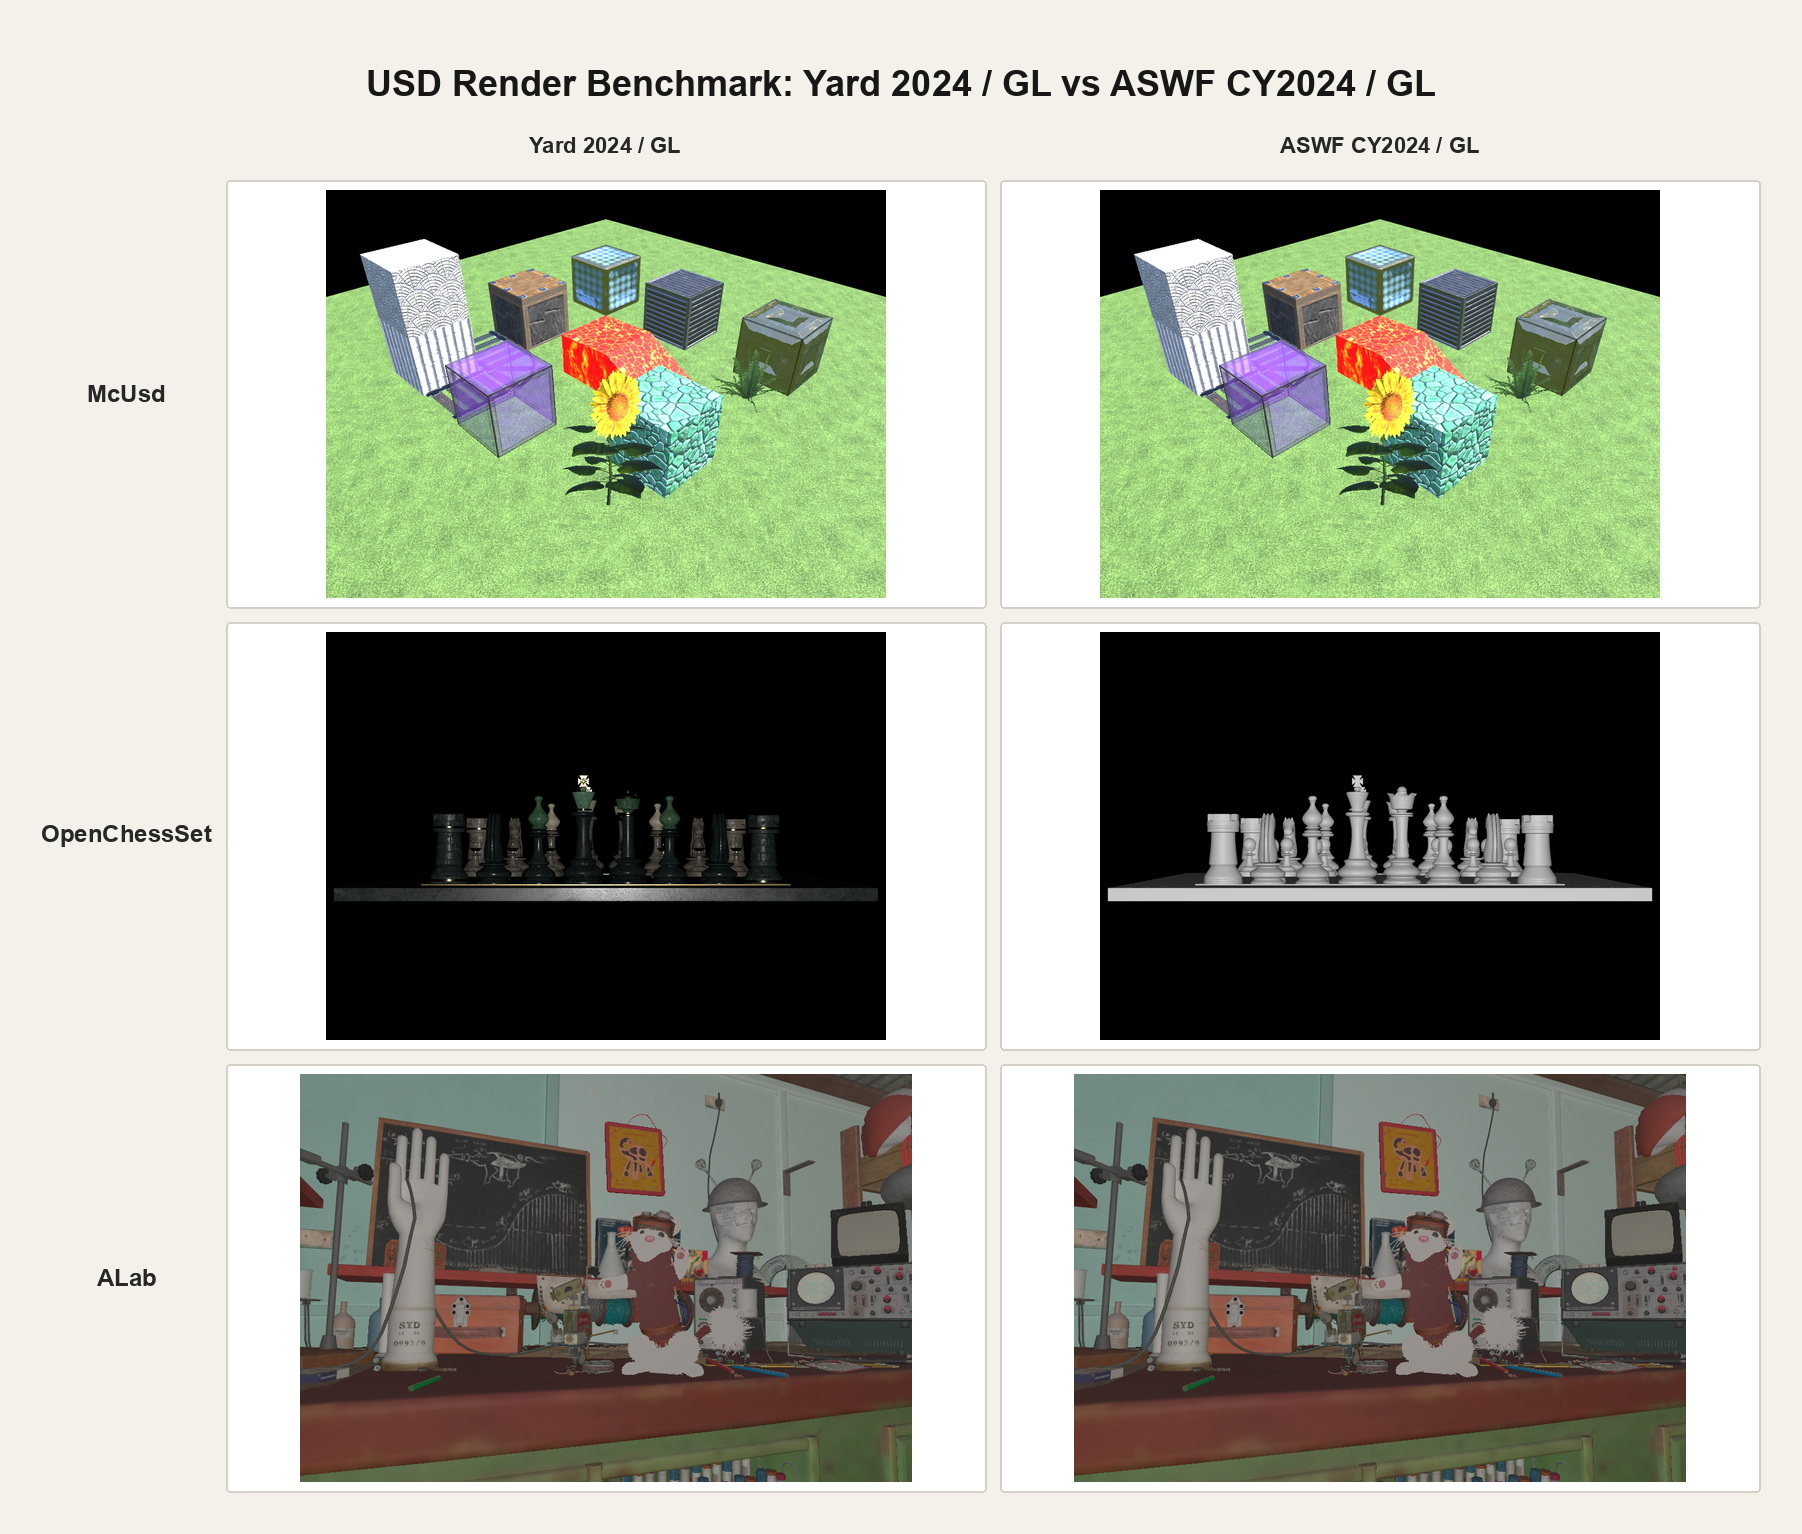
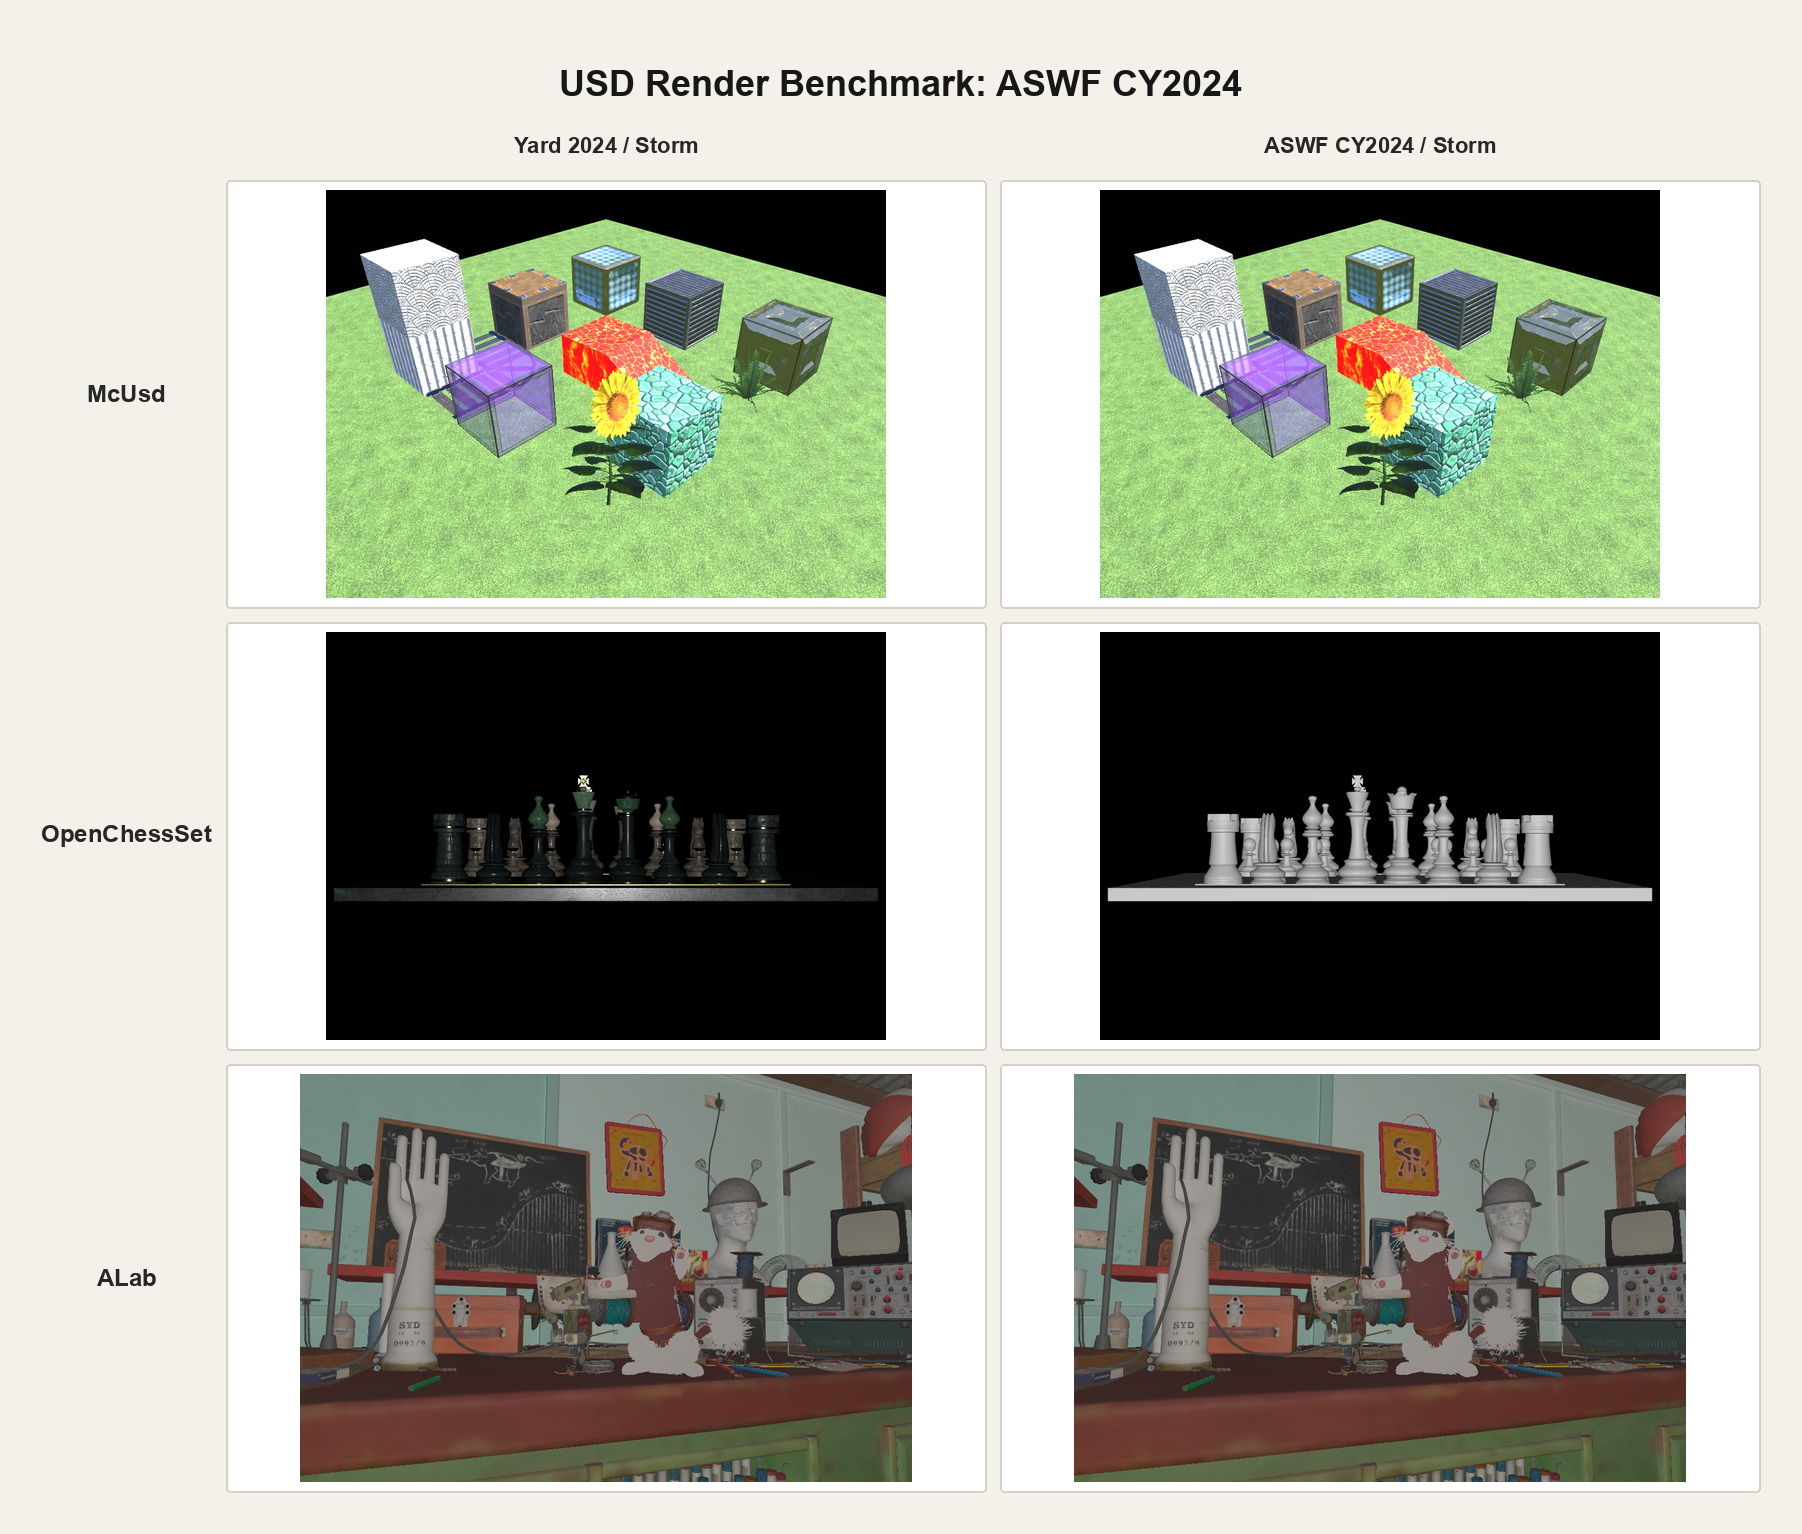
Refresh ASWF CY2024 Storm benchmark

Changed region(s): [[0.1865, 0.0306, 0.808, 0.0613], [0.7148, 0.0919, 0.8391, 0.1226], [0.2797, 0.0919, 0.3729, 0.1226]]

diff --git a/render_summary.md b/render_summary.md
@@ -2,8 +2,8 @@
 
 | Scene \ Renderer | GL |
 |---|---|
-| McUsd | Failure<br>0:08.23<br>390824KB |
-| chess_set | Success<br>0:02.68<br>369272KB |
-| entry | Failure<br>1:27.23<br>4728512KB |
+| McUsd | Success<br>0:06.10<br>385924KB |
+| chess_set | Success<br>0:01.80<br>376712KB |
+| entry | Failure<br>1:08.03<br>7272656KB |
 ## System Specs
-NVIDIA driver version 580.159.04 GPU: NVIDIA RTX PRO 4000 Blackwell with 24467MB Rocky Linux 8.10 (Green Obsidian), Linux kernel 6.8.0-124-generic
+AMD EPYC 7713 64-Core Processor (128 logical CPUs allowed, quota 27.2 CPUs) with 59127MB RAM limit NVIDIA driver version 580.167.08 GPU 0: NVIDIA RTX PRO 4500 Blackwell @ 3090MHz (compute 12.0) with 32623MB (32124MB available) Rocky Linux 8.10 (Green Obsidian), Linux kernel 6.8.0-124-generic

diff --git a/README.md b/README.md
@@ -9,9 +9,9 @@ environment and OpenUSD 24.08. It is not a complete CY2024 rerun of the original
 
 - Renderers: Storm
 - OpenUSD: 24.08
-- Container: `aswf/ci-vfxall:2024`
-- GPU: NVIDIA RTX PRO 4000 Blackwell, 24 GB
-- Driver: NVIDIA 580.159.04
+- Container: `ghcr.io/nicolaspopravka/usd-render-benchmark@sha256:82a1f775c6914289271d125fec3db6e5f9154357826347be634468ae69456d92`
+- GPU: NVIDIA RTX PRO 4500 Blackwell, 32 GB
+- Driver: NVIDIA 580.167.08
 - OS: Rocky Linux 8.10
 
 ## Results
